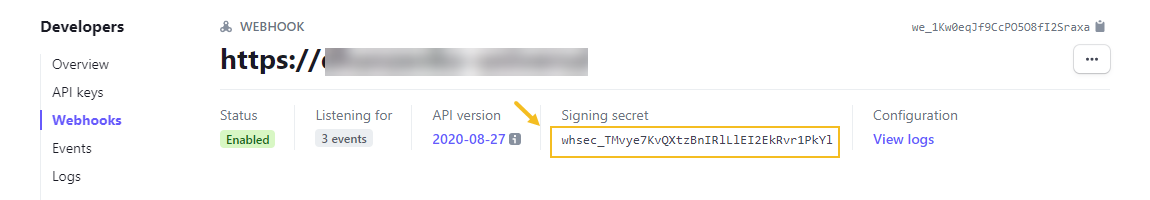
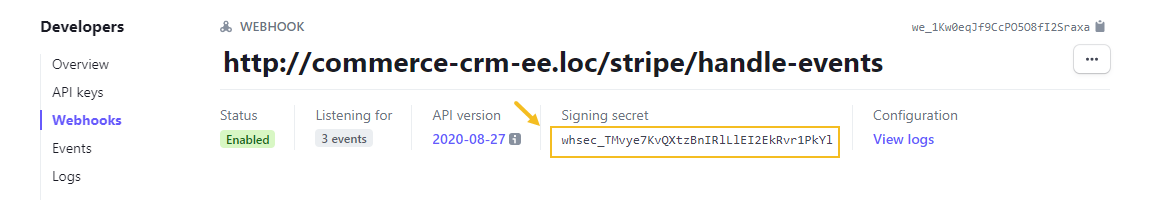
DOC-2020: (5.1) Updating the Stripe info on Webhook Endpoints (#35366)

Changed region(s): [[0.1826, 0.24, 0.7913, 0.39]]

diff --git a/user/back-office/system/integrations/payment-integration/stripe/index.rst b/user/back-office/system/integrations/payment-integration/stripe/index.rst
@@ -43,18 +43,22 @@ To configure the integration between Stripe and OroCommerce, follow the steps ou
    * **Short labels** - The payment method name/label that is shown in the order details in the OroCommerce back-office and storefront after the order is submitted. To translate the label into other languages, click on the icon next to the field.
    * **API Public Key** - An identifier that helps authenticate your account. It refers to **Publishable key** on the Stripe side. You must use separate keys for the test and production environments.
    * **API Secret Key** - A pre-shared key used to cipher payment information. It refers to **Secret key** on the Stripe side. You must use separate keys for the test and production environments.
-   * **Webhook Signing Secret** - A key that helps identify your webhook endpoints. Webhooks are used to notify the Oro application when an event happens in the Stripe account (e.g., capturing the payment).
+   * **Webhook Signing Secret** - A key that helps identify your webhook endpoints. Webhooks help synchronize actions and payment transactions between Oro and Stripe. They are used to notify the Oro application when an event happens in the Stripe account (e.g., capturing the payment).
 
      .. hint::
 
         To obtain the Signing secret:
 
-        1. Navigate to **Developers > Webhooks** in the Stripe dashboard and click **Add an endpoint**.
+        1. Navigate to **Developers > Webhooks** in the Stripe dashboard and click **Add an endpoint**. Endpoint is a unique URL of your Oro application that is created to receive and process data from Stripe in real-time. URL format should be: ``https://my_website_domain.com/stripe/handle-events``. You can use one endpoint to handle several different event types at once, or set up individual endpoints for specific events.
 
         .. image:: /user/img/system/integrations/stripe/creating-webhooks-steps.png
            :alt: 3 steps that instruct how to add a webhook endpoint
 
         2. Provide the endpoint URL and select the three events to listen to, **charge.refunded**, **payment_intent.canceled**, and **payment_intent.succeeded**. Keep in mind that Oro supports only these three events. Click **Add events**.
+
+        .. image:: /user/img/system/integrations/stripe/add-endpoint.png
+           :alt: Providing an endpoint and three events that Oro supports
+
         3. Click **Add endpoint** and copy the generated **Signing secret** to your Stripe integration creation field.
 
         .. image:: /user/img/system/integrations/stripe/signing-secret.png
